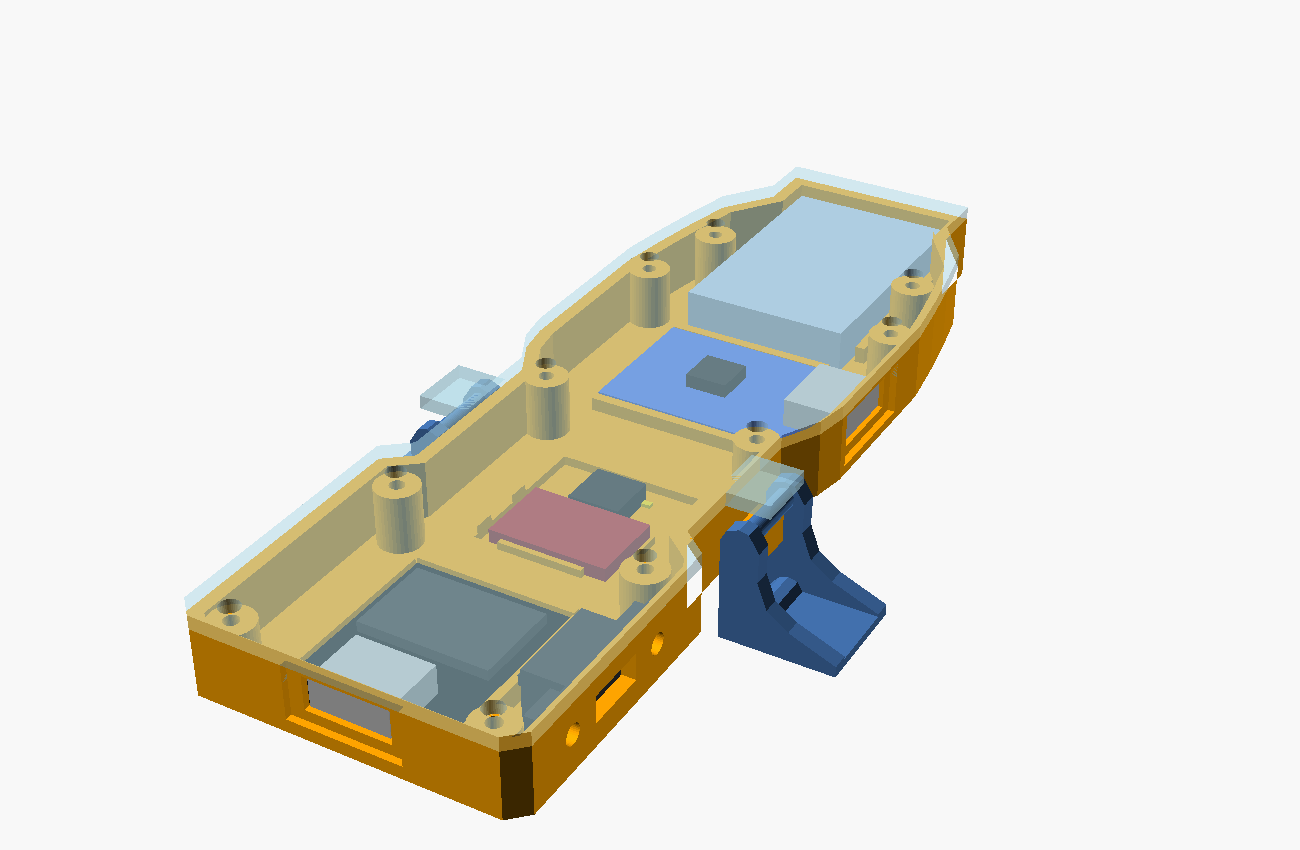
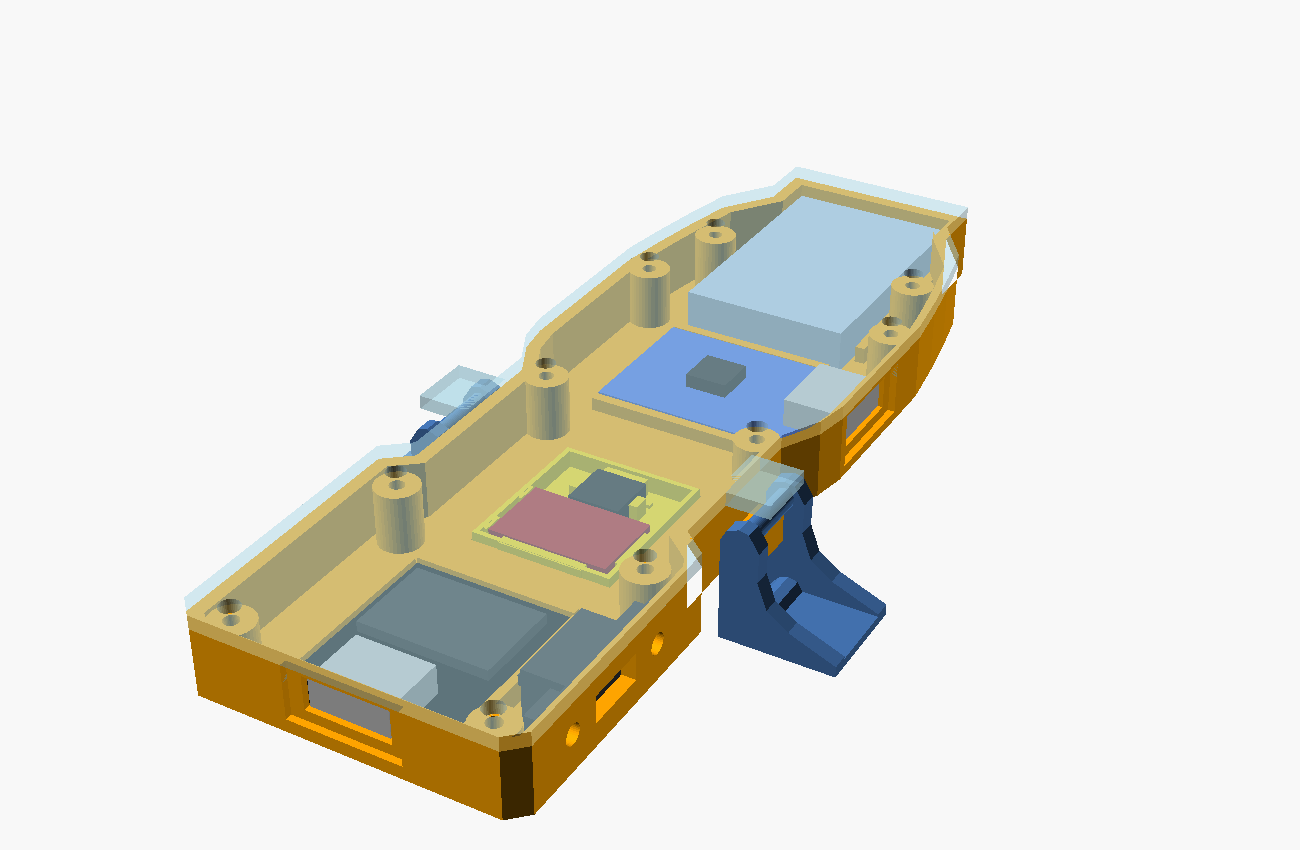
Scatola piatta: vassoio del sensore separato dal corpo
La fascia che sporge sotto il fondo impediva di stampare il corpo senza
supporti. Ora e' un pezzo a parte, che entra da sotto.

Changed region(s): [[0.4, 0.52, 0.5538, 0.6424], [0.4, 0.6424, 0.4923, 0.7035], [0.3692, 0.5812, 0.4, 0.6424]]

diff --git a/docs/scatola-piatta.md b/docs/scatola-piatta.md
@@ -10,9 +10,9 @@ Variante in un pezzo solo, in alternativa alla scatola avvitata sulla base Launc
 
 | | Scatola su base LaunchLab | Scatola piatta |
 | --- | --- | --- |
-| Pezzi | base LaunchLab + barretta + scatola + coperchio + perno | corpo + coperchio + 2 clip |
+| Pezzi | base LaunchLab + barretta + scatola + coperchio + perno | corpo + vassoio del sensore + coperchio + 2 clip |
 | Tasto di presenza | perno, foro da fare, barretta da tagliare | direttamente sul pistoncino |
-| Altezza sul launcher | circa 25 mm | circa 10 mm |
+| Altezza sul launcher | circa 28 mm | circa 10 mm |
 | Lunghezza | circa 70 mm | circa 113 mm |
 | Licenze | base CC BY-SA a parte | tutto MIT |
 
@@ -40,23 +40,24 @@ Da dietro in avanti:
 
 ## Stampa
 
-`part = "plate"` mette tutti i pezzi sul piatto, oppure singolarmente `"body"`, `"lid"` e `"clips"`.
+`part = "plate"` mette tutti i pezzi sul piatto, oppure singolarmente `"body"`, `"lid"`, `"tray"` e `"clips"`. In tutto servono circa 21 g di filamento.
 
 - PETG, layer 0,2 mm.
-- Corpo e coperchio senza supporti: il corpo appoggia sulla fascia centrale, la cui faccia è la più bassa, e il coperchio è capovolto.
+- Corpo, vassoio e coperchio senza supporti: ognuno appoggia su una faccia piana. Il vassoio è un pezzo a parte proprio per questo: la sua fascia sporge 1 mm sotto il fondo, e se fosse unita al corpo il resto del fondo resterebbe sospeso.
 - Le clip si stampano coricate su un braccio, così gli strati seguono il verso in cui lavorano.
 - Se la tua stampante è piccola, stampa i pezzi uno alla volta: il corpo è lungo 113 mm.
 
 ## Montaggio
 
-1. **QRE1113**: salda i tre fili direttamente al breakout, senza pettine. Sensore verso il basso nella finestra, PCB sugli appoggi tra le sponde, una goccia di colla a caldo sui bordi.
-2. **Tasto SMD 6×6**: cappuccio nel foro verso il basso, tra le sponde. Salda due fili su due piedini che si collegano solo a tasto premuto (trovali col tester). Una goccia di colla.
-3. **SuperMini**: USB-C nel foro della parete posteriore, scheda sui binari.
-4. **Interruttore**: leva nella feritoia, 2 viti M2×6 da fuori e dado dentro.
-5. **TP4056** tra le guide, con la USB-C nel foro del fianco. **LiPo** nel vano, su un velo di gommapiuma.
-6. Salda i collegamenti come nella [guida](guida.md); il tasto va tra GPIO5 e GND.
-7. **Clip**: infila ognuna sul blocco della cerniera, con il dente verso il launcher.
-8. **Coperchio** con **10 viti M2×6**. Le sue alette tengono il perno delle clip nella sede.
+1. **QRE1113**, nel vassoio: salda i tre fili direttamente al breakout, senza pettine. Sensore verso il basso nella finestra, PCB sugli appoggi tra le sponde, una goccia di colla a caldo sui bordi.
+2. **Tasto SMD 6×6**, nel vassoio: cappuccio nel foro verso il basso, tra le sponde. Salda due fili su due piedini che si collegano solo a tasto premuto (trovali col tester). Una goccia di colla.
+3. **Vassoio nel corpo**, da sotto: la fascia resta fuori e appoggia al fondo. Fissalo con qualche goccia di colla lungo il bordo; la spinta del pistoncino lo tiene comunque premuto contro il corpo.
+4. **SuperMini**: USB-C nel foro della parete posteriore, scheda sui binari.
+5. **Interruttore**: leva nella feritoia, 2 viti M2×6 da fuori e dado dentro.
+6. **TP4056** tra le guide, con la USB-C nel foro del fianco. **LiPo** nel vano, su un velo di gommapiuma.
+7. Salda i collegamenti come nella [guida](guida.md); il tasto va tra GPIO5 e GND.
+8. **Clip**: infila ognuna sul blocco della cerniera, con il dente verso il launcher.
+9. **Coperchio** con **10 viti M2×6**. Le sue alette tengono il perno delle clip nella sede.
 
 ## Da controllare al primo pezzo stampato
 
@@ -69,7 +70,7 @@ Da dietro in avanti:
 
 ## Verifiche fatte a CAD
 
-- Corpo, coperchio e clip sono ognuno un solido unico.
-- Nessuna collisione tra QRE, tasto, SuperMini, TP4056, LiPo, interruttore, corpo e coperchio.
+- Corpo, vassoio, coperchio e clip sono ognuno un solido unico.
+- Nessuna collisione tra QRE, tasto, SuperMini, TP4056, LiPo, interruttore, corpo, vassoio e coperchio.
 - La clip ruota di 15° verso l'esterno senza toccare corpo e coperchio.
 - La pianta del corpo sta dentro quella di Dragoon, con al massimo 0,3 mm di sporgenza locale.

diff --git a/hardware/img/README.md b/hardware/img/README.md
@@ -12,7 +12,7 @@ I componenti sono **blocchi semplificati** con le misure tipiche usate nei param
 | `sezione.png`, `sezione_3d.png` | Sezione a metà: il sensore QRE1113 nella base guarda in basso nella finestrella; la spina Dupont sta sotto la scatola; i fili salgono dall'apertura nel fondo, passano sopra la LiPo e oltre la traversa fino alla SuperMini |
 | `esploso.png` | Ordine di montaggio dal basso: base con sensore, 4 viti M2×6, scatola, TP4056 (spostato indietro perché entra scorrendo sotto la traversa), LiPo con partitore, interruttore, SuperMini, coperchio e viti |
 | `stampa.png` | Scatola e coperchio come vanno sul piatto di stampa |
-| `piatta_assieme.png` | Scatola piatta (`spinlite_flat.scad`) senza coperchio, con i componenti e una clip: MIT, senza parti LaunchLab |
+| `piatta_assieme.png` | Scatola piatta (`spinlite_flat.scad`) con il coperchio trasparente, i componenti e le clip: MIT, senza parti LaunchLab |
 | `render_qre.png`, `render_qre_lato.png` | Render Blender della configurazione di riferimento: base QRE1113 di LaunchLab con la scatola SpinLite sopra, su un launcher a corda |
 | `render_tcrt.png` | Render Blender dell'alternativa: supporto laterale TCRT5000 di LaunchLab e scatola laterale (`spinlite_box.scad`) fissata al fianco con due fascette |
 
